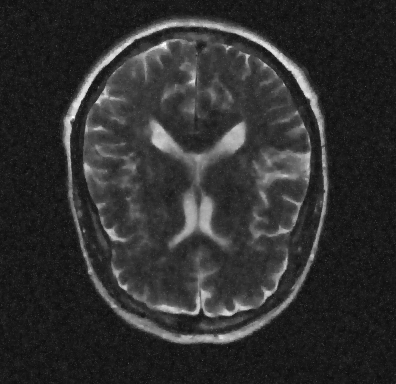
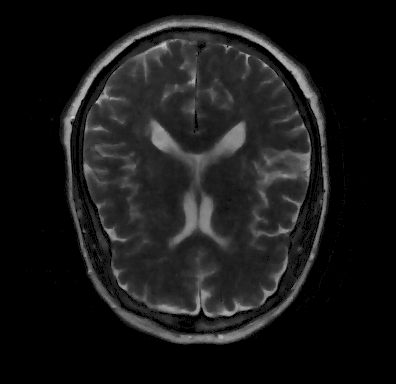
noise level 0.5

diff --git a/TV_gradient.m b/TV_gradient.m
@@ -57,19 +57,19 @@ DhD = reshape(real(Dh(D(ones(N1,N2,Nc)))),N1,N2,Nc);
 sigma = 1;
 noise = complex(sigma*randn(N1,N2,Nc),sigma*randn(N1,N2,Nc));
 factor = 8;
-weight = factor*ones(N1,N2);
-rho = 5;
-beta = 1e-3;
+weight = factor*ones(1,N2);
+rho = 2;
+beta = 1;
 
-MaxIter = 5;
+MaxIter = 10;
 
 %%
-%load('/home/wjy/mask_TV.mat');
+load('/home/wjy/mask_TV.mat');
 kspace = h5read([datapath,dirname(3).name],'/kspace');
 kspace = complex(kspace.r,kspace.i);
 kspace = permute(kspace,[4,2,1,3]);
 kData = undersample(reshape(kspace(1,:,:,:),2*N1,N2,Nc))/1e-4;
-kMask = repmat(sqrt(weight),[1,1,Nc]);
+kMask = repmat(sqrt(weight),[N1,1,Nc]);
 usData = kMask.*kData+noise;
 recon = TV(usData,kMask,rho,beta,MaxIter,D,Dh,DhD);
 imr = ifft2c(reshape(recon,N1,N2,Nc));
@@ -78,18 +78,19 @@ Im = sqrt(sum(abs(ifft2c(reshape(kData,N1,N2,Nc))).^2,3));
 ImN= sqrt(sum(abs(ifft2c(reshape(usData./kMask,N1,N2,Nc))).^2,3));
 support = zeros(N1,N2);
 support(Im>0.06*max(Im(:))) = 1;
-image_norm(support.*(ImR-Im))/image_norm(support.*Im)
-% 
-% 
 %%
-epoch_max = 3;
-step = 1;
+ image_norm(support.*(ImN-Im))/image_norm(support.*Im)
+ image_norm(support.*(ImR-Im))/image_norm(support.*Im)
+ 
+%%
+epoch_max = 100;
+step = 10;
 train_loss = zeros(1,epoch_max);
 for epoch = 1:epoch_max
     disp(epoch);
     loss = 0;
     for batch = 1:batch_num
-        kMask = repmat(sqrt(weight),[1,1,Nc]);
+        kMask = repmat(sqrt(weight),[N1,1,Nc]);
         AhA = kMask.*kMask + rho*DhD;
         AhA_dagger = AhA;
         AhA_dagger(find(AhA)) = 1./AhA(find(AhA));
@@ -166,7 +167,7 @@ for epoch = 1:epoch_max
     
         end
         
-        Gradient = sum(Gradient,3);
+        Gradient = sum(sum(Gradient,3),1);
         Gradient = Gradient-mean(Gradient(:));
         Gradient = Gradient/norm(Gradient(:));
 
@@ -176,7 +177,7 @@ for epoch = 1:epoch_max
             weight = weight - mean(weight(:)) + factor;
         end
         weight(weight<1) = 1;
-        if mod(batch,100) == 0
+        if mod(batch,2) == 0
             disp(['epoch:',num2str(epoch),' batch:',num2str(batch),' train loss:',num2str(mean(mse))]);
         end
         loss = loss + mean(mse);

diff --git a/test.py b/test.py
@@ -38,13 +38,13 @@ class Sample(torch.nn.Module):
 
     def __init__(self,sigma,factor):
         super().__init__()
-        self.mask = factor*torch.ones(384,396)
+        self.mask = factor*torch.ones(396)
         self.sigma = sigma
 
     def forward(self,kspace):
 
         noise = self.sigma*torch.randn_like(kspace)
-        kspace_noise = kspace + torch.div(noise,torch.sqrt(self.mask).unsqueeze(0).unsqueeze(3).unsqueeze(0).repeat(kspace.size(0),16,1,1,2))  # need to reshape mask        image = fastmri.ifft2c(kspace_noise)
+        kspace_noise = kspace + torch.div(noise,torch.sqrt(self.mask).unsqueeze(0).unsqueeze(1).unsqueeze(3).unsqueeze(0).repeat(kspace.size(0),16,384,1,2))  # need to reshape mask        image = fastmri.ifft2c(kspace_noise)
         image = fastmri.ifft2c(kspace_noise)
         image = torch.sqrt(torch.sum(torch.sum(torch.mul(image,image),4),1)).unsqueeze(1)
         #image = transforms.normalize(image,glob_mean,glob_std,1e-11)
@@ -64,7 +64,7 @@ class toImage(torch.nn.Module):
 
 # %% sampling
 factor = 8
-sigma = 2
+sigma = 1.5
 sample_model = Sample(sigma,factor)
 
 toIm = toImage()
@@ -72,9 +72,9 @@ toIm = toImage()
 
 # %% load uniform-unet model
 #val_uniform_loss = torch.load('/home/wjy/unet_model_val_loss')
-#mask = torch.load('/home/wjy/unet_mask')
+mask = torch.load('/home/wjy/unet_mask_noise1.5')
 #sample_model.mask = mask
-model = torch.load('/home/wjy/uniform_model',map_location=torch.device('cpu'))
+model = torch.load('/home/wjy/uniform_model_noise1.5',map_location=torch.device('cpu'))
 # %%
 #plt.plot(val_loss)
 # %%
@@ -92,7 +92,7 @@ support = torch.ge(Im,0.06*Im.max())
 ImR = torch.mul(ImR,support)
 Im = torch.mul(Im,support)
 Error = torch.abs(ImR-Im)
-plt.imshow(ImR[0,0,:,:],cmap='gray')
+plt.imshow(Error[0,0,:,:],cmap='gray')
 # %%
 
 #val_unet_loss = torch.load('/home/wjy/unet_model_val_loss')

diff --git a/Unet_opt.py b/Unet_opt.py
@@ -62,7 +62,7 @@ class toImage(torch.nn.Module):
 
 # %% sampling
 factor = 8
-sigma = 1.5
+sigma = 0.5
 print("noise level:", sigma)
 sample_model = Sample(sigma,factor)
 
@@ -95,8 +95,8 @@ toIm.to(device)
 recon_optimizer = optim.RMSprop(recon_model.parameters(),lr=1e-3)
 Loss = torch.nn.MSELoss()
 # %% training
-step = 1e-1
-max_epochs = 10
+step = 1
+max_epochs = 20
 val_loss = torch.zeros(max_epochs)
 for epoch in range(max_epochs):
     print("epoch:",epoch+1)
@@ -118,7 +118,7 @@ for epoch in range(max_epochs):
 
         loss = Loss(recon,ground_truth)
         if batch_count%100 == 0:
-            print("batch:",batch_count,"train MSE:",loss.item(),"Original MSE:", Loss(recon,ground_truth))
+            print("batch:",batch_count,"train MSE:",loss.item(),"Original MSE:", Loss(image_noise,ground_truth))
  
    
         loss.backward()

diff --git a/uniform_training.py b/uniform_training.py
@@ -65,7 +65,7 @@ factor = 8
 #mask = torch.ones_like(train_data[0])
 #mask = factor*mask[0,:,:,0].squeeze() 
 #mask.requires_grad = True
-sigma = 1.5
+sigma = 0.5
 print("noise level:", sigma)
 sample_model = Sample(sigma,factor)
 
@@ -111,7 +111,7 @@ recon_optimizer = optim.RMSprop(recon_model.parameters(),lr=1e-3)
 Loss = torch.nn.MSELoss()
 
 # %% training
-max_epochs = 10
+max_epochs = 20
 val_loss = torch.zeros(max_epochs)
 for epoch in range(max_epochs):
     print("epoch:",epoch+1)
